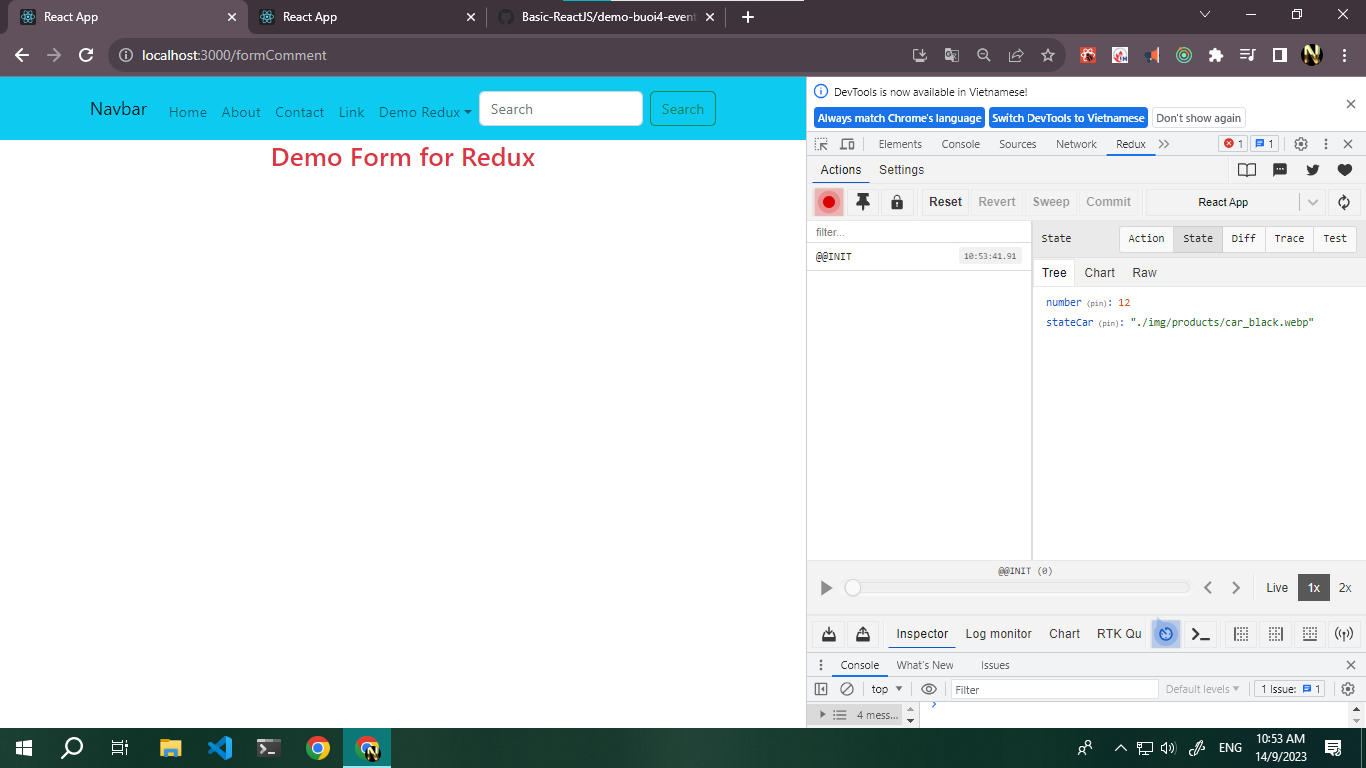
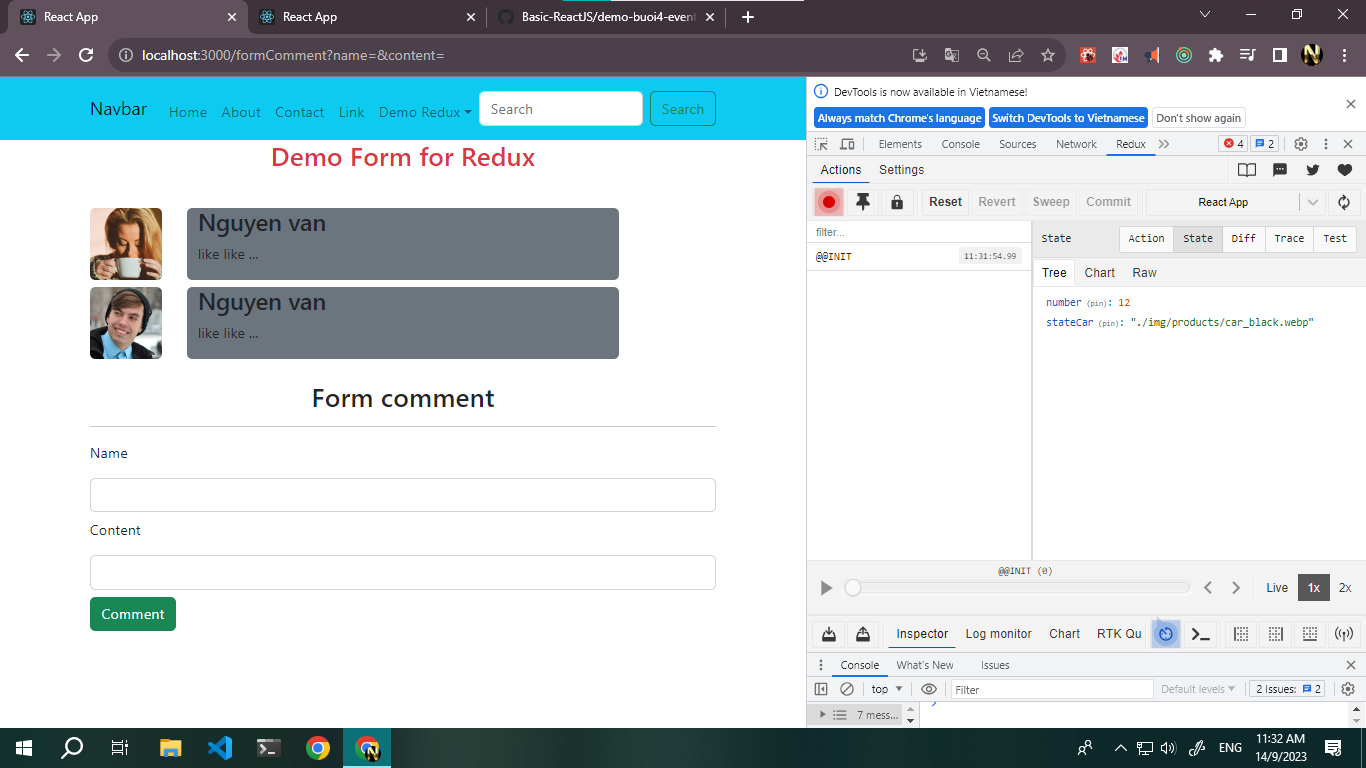
finish giao dien bt comment

diff --git a/demo-buoi8-redux/src/Page/DemoRedux/DemoFormComment/TableComment.jsx b/demo-buoi8-redux/src/Page/DemoRedux/DemoFormComment/TableComment.jsx
@@ -1,23 +1,44 @@
-import React, { Component } from 'react'
-import PropTypes from 'prop-types'
-import { connect } from 'react-redux'
+import React, { Component } from "react";
+import PropTypes from "prop-types";
+import { connect } from "react-redux";
 
- class TableComment extends Component {
+class TableComment extends Component {
   static propTypes = {
-    prop: PropTypes
-  }
+    prop: PropTypes,
+  };
 
   render() {
     return (
-      <div>
-        
-      </div>
-    )
+      <>
+        {/* <img src=" https://i.pravatar.cc/?u=20" alt="..." height={300} /> */}
+
+        <div className="row mt-2  ">
+          <div className="col-2">
+            <img src=" https://i.pravatar.cc/?u=1" className="rounded" alt="..." height={80} />
+          </div>
+          <div className="col-8 bg-secondary rounded">
+            <h3>Nguyen van </h3>
+            <p>like like ...</p>
+          </div>
+        </div>
+
+        <div className="row mt-2  ">
+          <div className="col-2 ">
+            <img src=" https://i.pravatar.cc/?u=2" className="rounded" alt="..." height={80} />
+          </div>
+          <div className="col-8 bg-secondary rounded">
+            <h3>Nguyen van </h3>
+            <p>like like ...</p>
+          </div>
+        </div>
+
+
+
+      </>
+    );
   }
 }
 
-const mapStateToProps = (state) => ({
-  
-})
+const mapStateToProps = (state) => ({});
 
-export default connect(mapStateToProps)(TableComment)
+export default connect(mapStateToProps)(TableComment);

diff --git a/demo-buoi8-redux/src/Page/DemoRedux/DemoFormComment/FormComment.jsx b/demo-buoi8-redux/src/Page/DemoRedux/DemoFormComment/FormComment.jsx
@@ -1,24 +1,40 @@
-import React, { Component } from 'react'
-import PropTypes from 'prop-types'
-import { connect } from 'react-redux'
+import React, { Component } from "react";
+import PropTypes from "prop-types";
+import { connect } from "react-redux";
 
 class FormComment extends Component {
   static propTypes = {
-    prop: PropTypes
+    prop: PropTypes,
+  };
+
+  handleSubmit = (e) => {
+    e.preventDefault() ;
   }
 
   render() {
     return (
-      <div>
+      <>
+        <h2 className="text-center mt-4">Form comment</h2>
+        <hr />
         
-      </div>
-    )
+        <form onSubmit={() => this.handleSubmit}>
+            <div className="form-group mt-2">
+                <p>Name</p>
+                <input type="text" name="name" id="name" className="form-control" />
+            </div>
+            <div className="form-group mt-2">
+                <p>Content</p>
+                <input type="text" name="content" id="content" className="form-control" />
+            </div>
+            <div className="form-group mt-2">
+                <button className="btn btn-success">Comment</button>
+            </div>
+        </form>
+      </>
+    );
   }
 }
 
-const mapStateToProps = (state) => ({
-  
-})
+const mapStateToProps = (state) => ({});
 
-
-export default connect(mapStateToProps)(FormComment)
+export default connect(mapStateToProps)(FormComment);

diff --git a/demo-buoi8-redux/src/Page/DemoRedux/DemoFormComment/DemoFormComment.jsx b/demo-buoi8-redux/src/Page/DemoRedux/DemoFormComment/DemoFormComment.jsx
@@ -1,6 +1,8 @@
 import React, { Component } from "react";
 import PropTypes from "prop-types";
 import { connect } from "react-redux";
+import TableComment from "./TableComment";
+import FormComment from "./FormComment";
 
 class DemoFormComment extends Component {
   static propTypes = {
@@ -11,6 +13,9 @@ class DemoFormComment extends Component {
     return <div className="container">
         <h2 className="text-center text-danger">Demo Form for Redux</h2>
         <br />
+        <TableComment />
+        
+        <FormComment />
     </div>;
   }
 }
